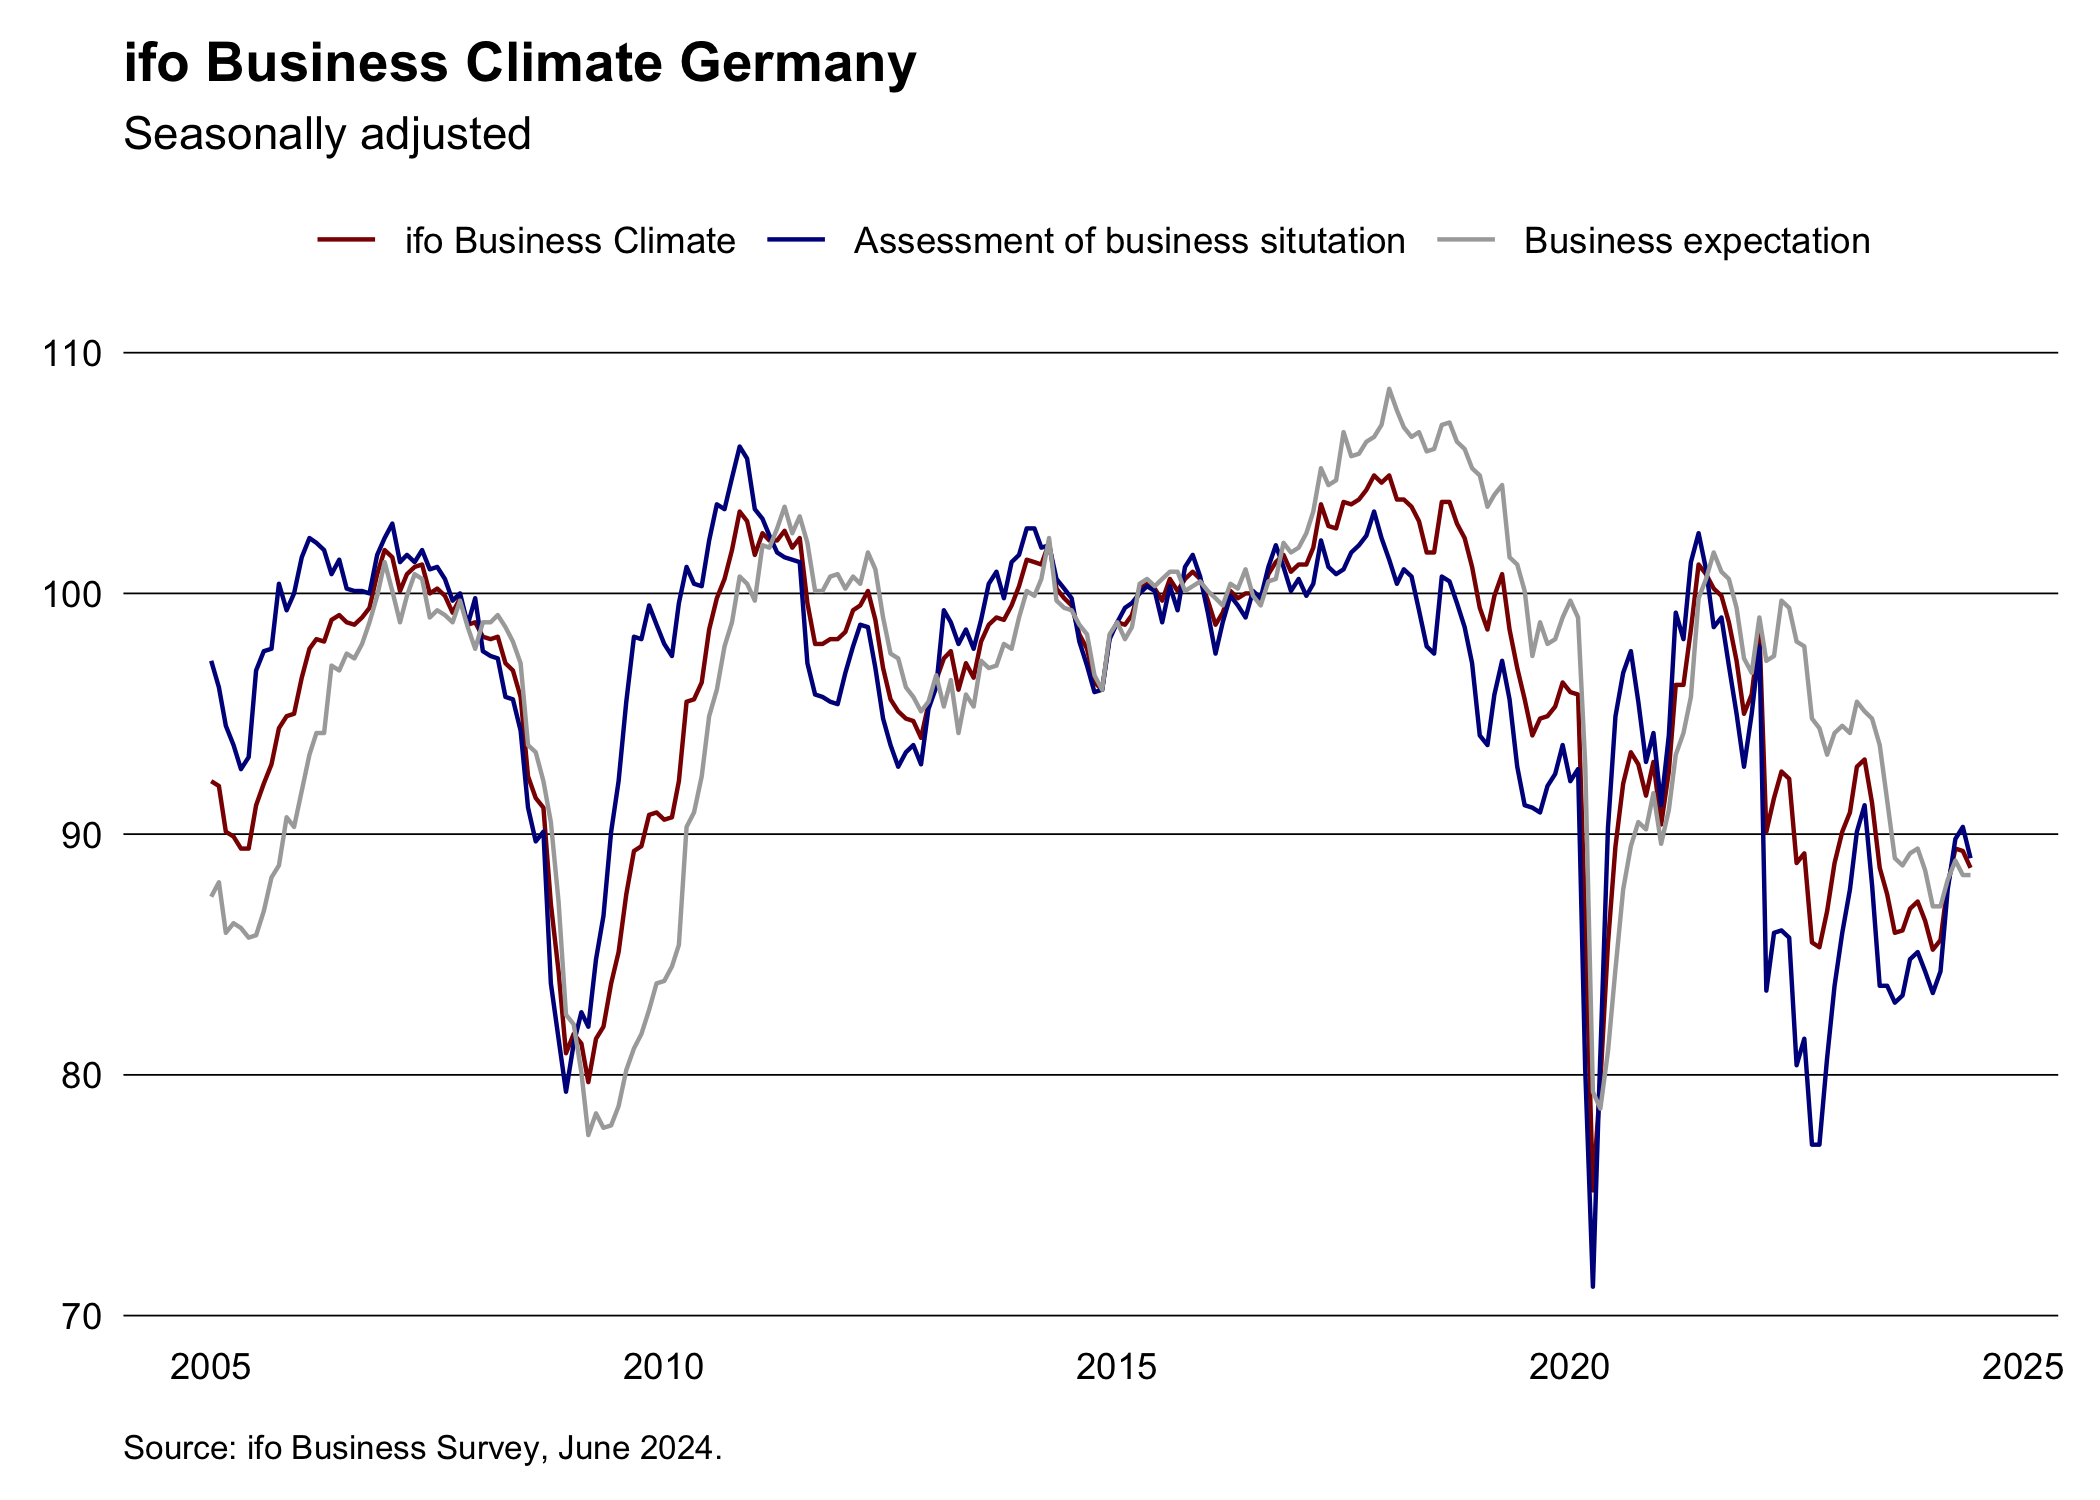
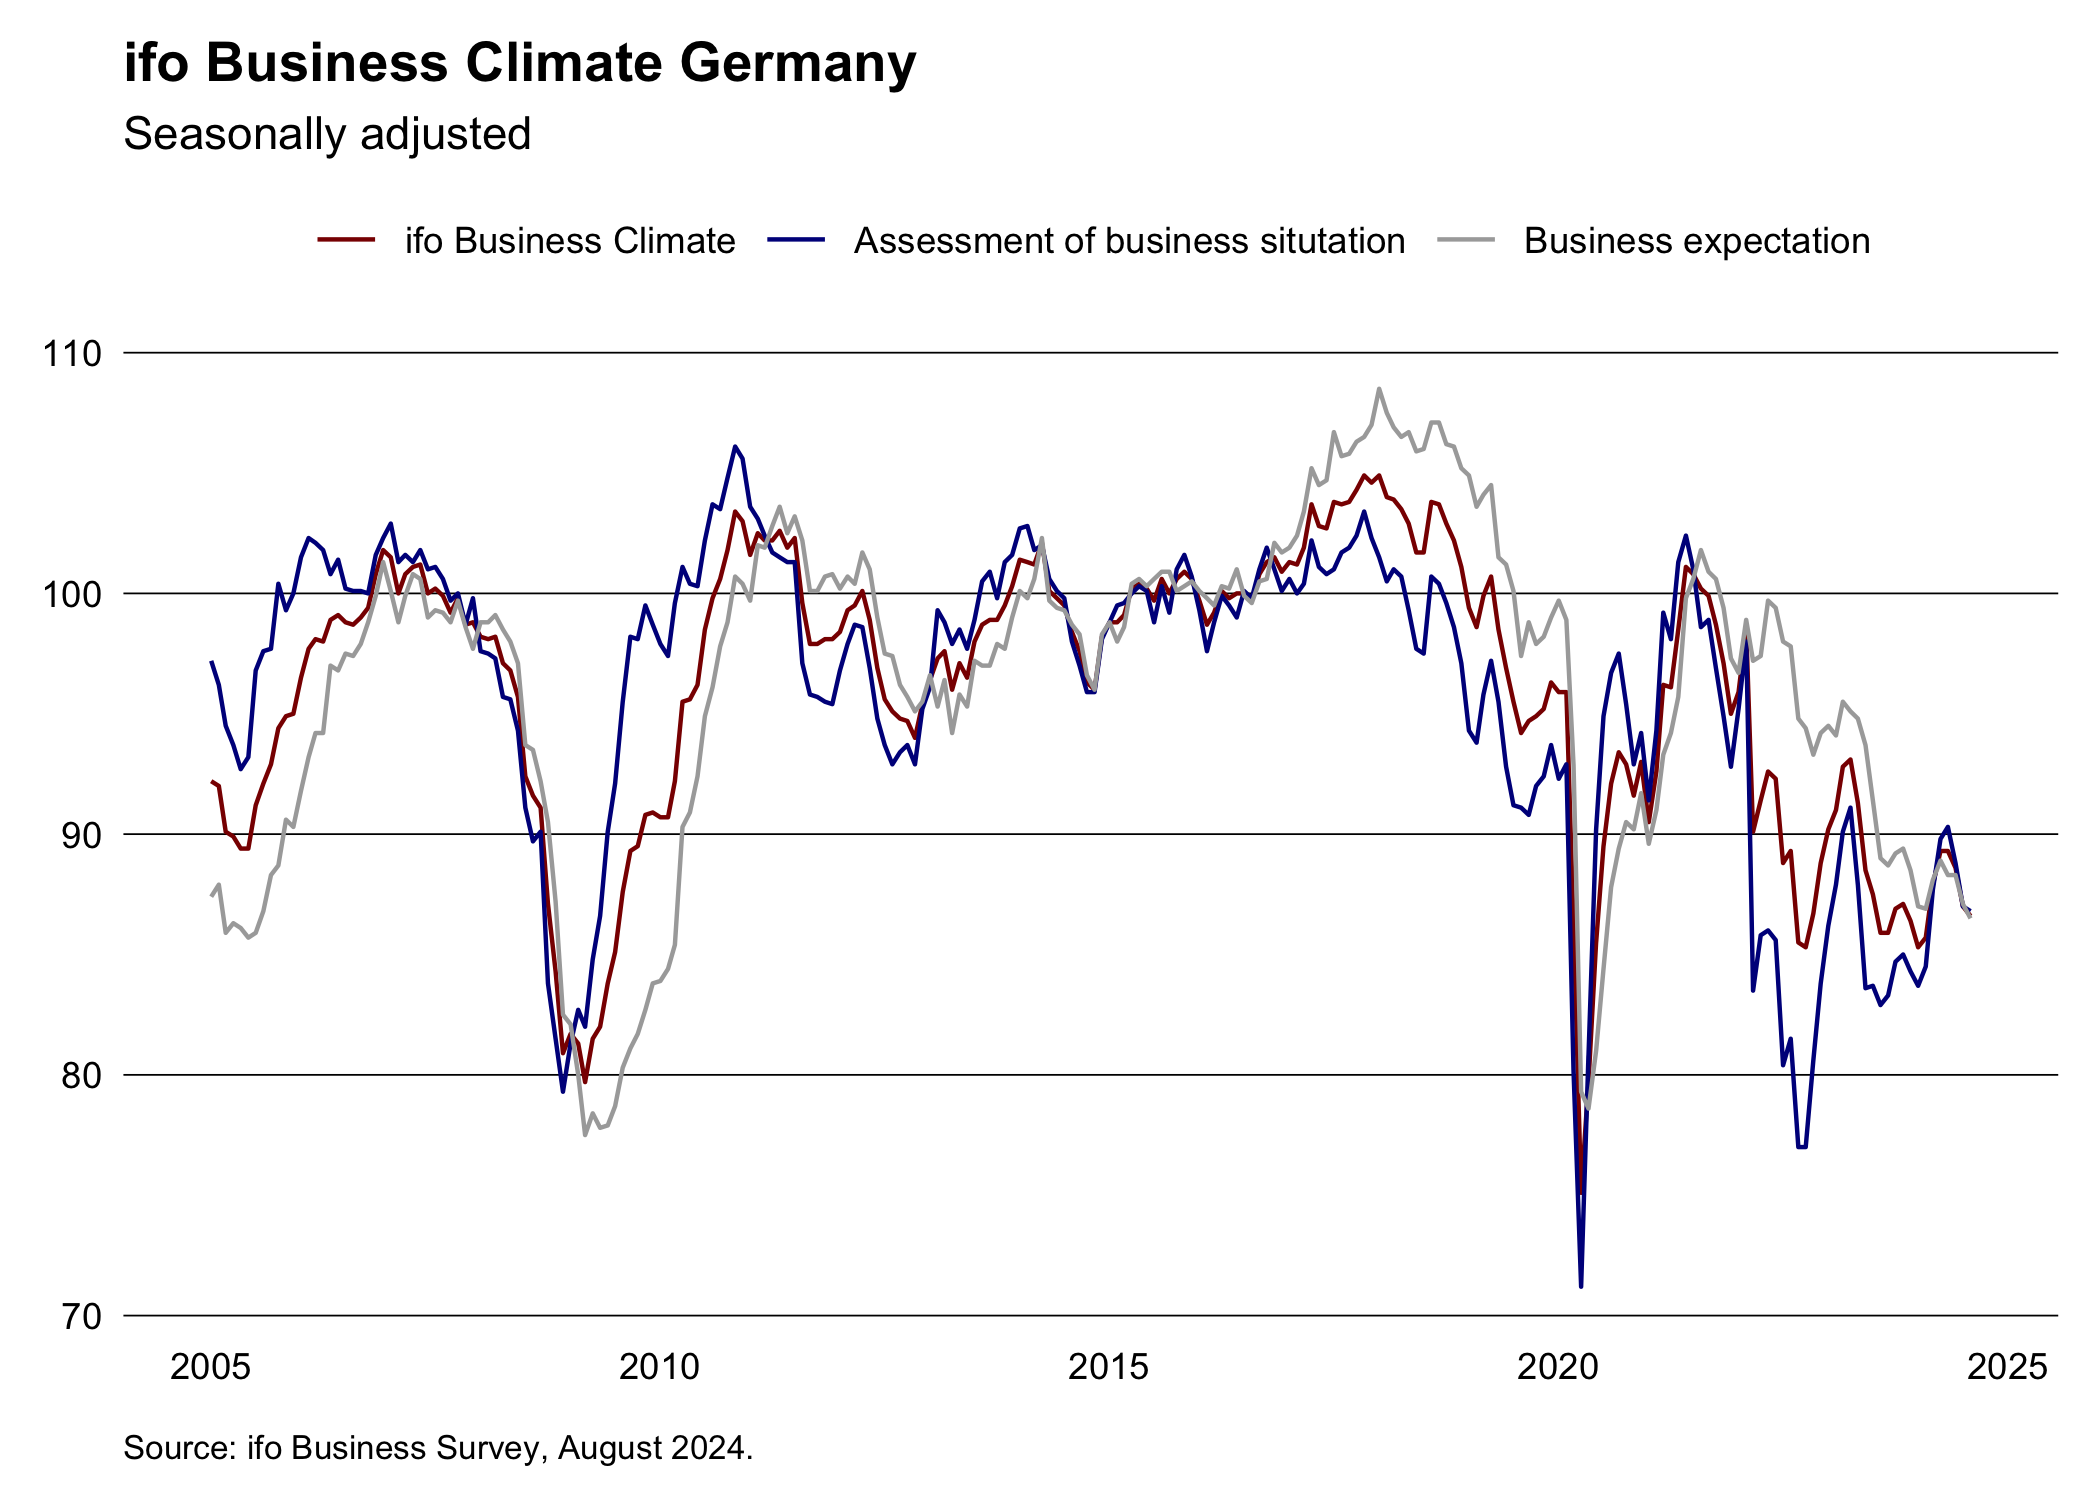
docs: rebuild readme

diff --git a/README.md b/README.md
@@ -43,7 +43,7 @@ library(ifo)
 
 climate <- ifo_business()
 climate
-#> # A tibble: 1,404 × 6
+#> # A tibble: 1,416 × 6
 #>   yearmonth  uncertainty economic_expansion indicator   series  value
 #>   <date>           <dbl>              <dbl> <chr>       <chr>   <dbl>
 #> 1 2005-01-01          NA               83.1 climate     index    92.2
@@ -51,7 +51,7 @@ climate
 #> 3 2005-01-01          NA               83.1 expectation index    97.2
 #> 4 2005-01-01          NA               83.1 climate     balance   1.5
 #> 5 2005-01-01          NA               83.1 situation   balance  -0.8
-#> # ℹ 1,399 more rows
+#> # ℹ 1,411 more rows
 ```
 
 <img src="man/figures/README-plotting-1.png" width="100%" />
